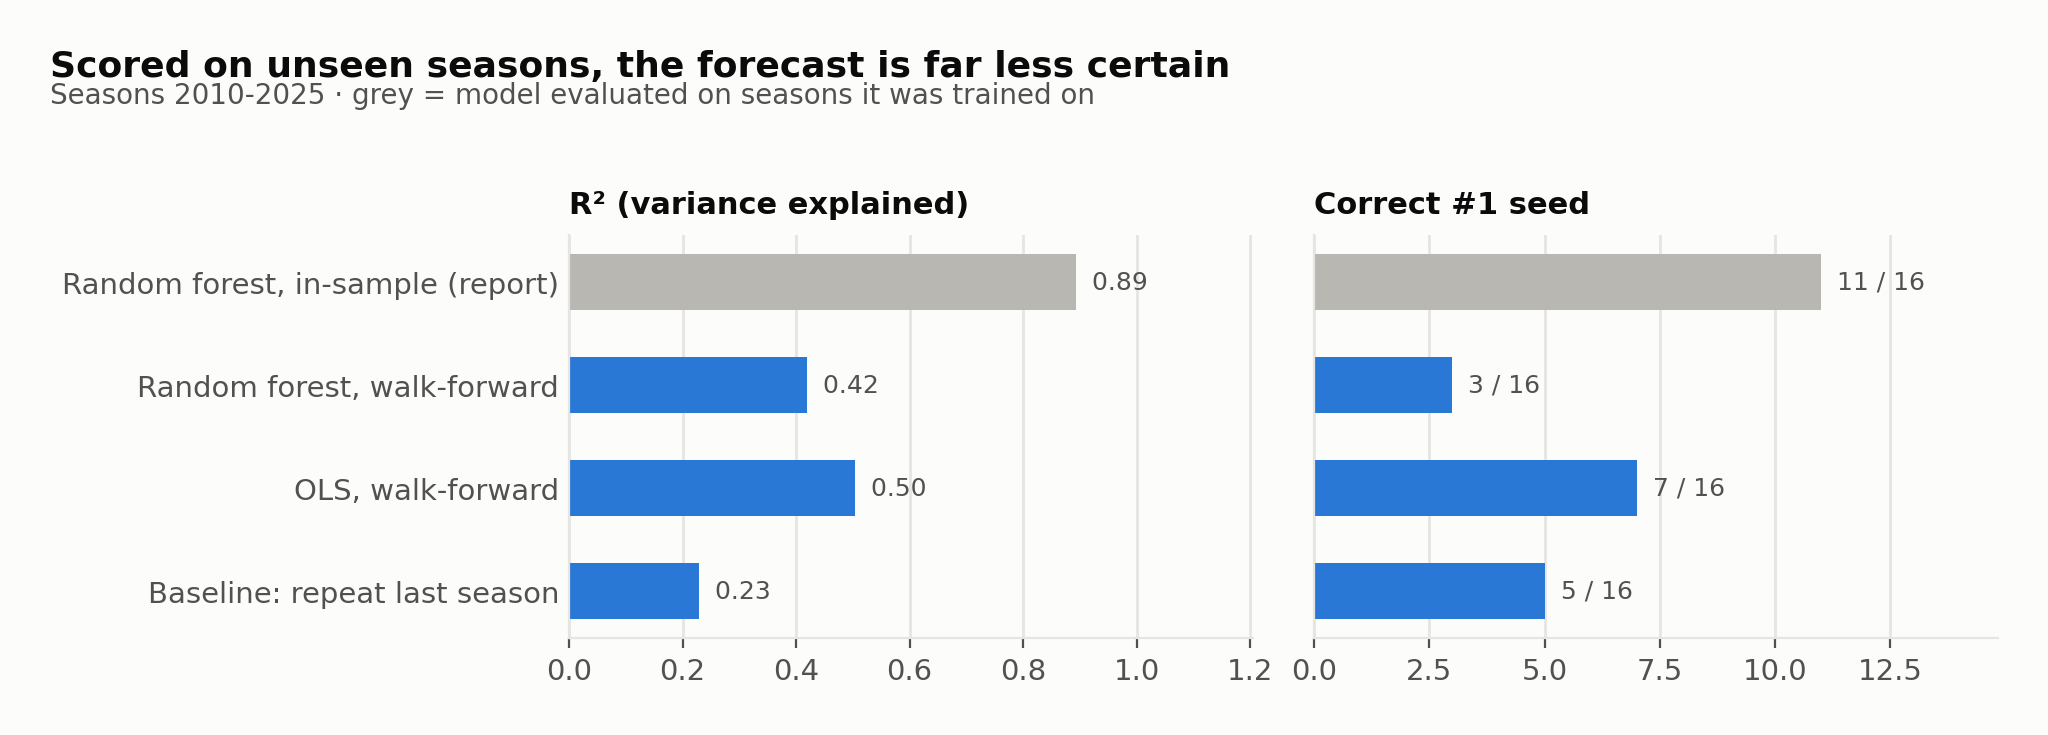
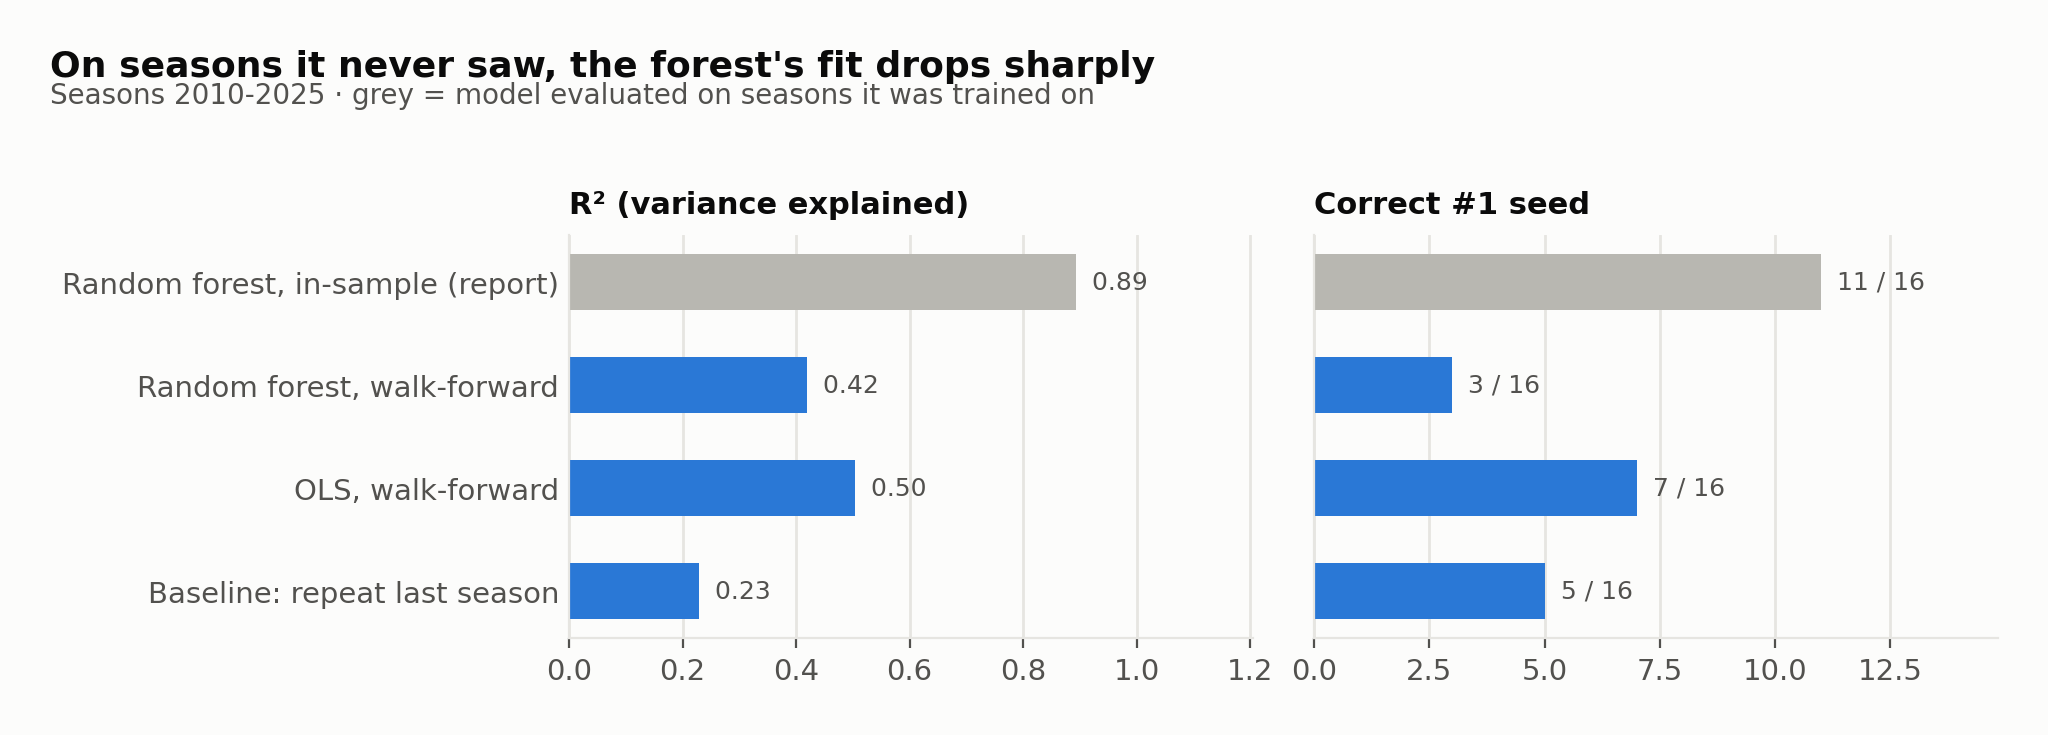
Describe the walk-forward test accurately; add CI; plain MIT license
- The walk-forward test predicts each season from its own box scores, so it measures fit on
  unseen seasons, not pre-season forecasting. README, notebook 03 and the evaluation figure now
  say so, and the repeat-last-season rule is shown as a reference rather than a fair benchmark.
- README: role line, label report vs corrected cleaning, drop the era-inflation explanation
  (the negative PTS/TRB correlations hold within seasons).
- Move the Basketball-Reference data note from LICENSE to the README so GitHub detects MIT.
- GitHub Actions test workflow with a live badge; silence numpy matmul RuntimeWarnings.

Changed region(s): [[0.0312, 0.0599, 0.5938, 0.1197]]

diff --git a/scripts/build_notebooks.py b/scripts/build_notebooks.py
@@ -193,8 +193,8 @@ The report's headline (*the random forest picks the league leader in 13 of 20 se
 trained on those same 20 seasons. This notebook asks the question a forecaster cares about:
 **how well does the method do on a season it has never seen?**
 
-- **Walk-forward backtest**: for each season 2010-2025, train only on earlier seasons, then predict that season.
-- **Baseline**: "every team repeats last season's win %".
+- **Walk-forward test**: for each season 2010-2025, train only on earlier seasons, then predict that season from its own box scores. This measures fit on unseen seasons, not pre-season forecasting (the season's stats are not known in advance).
+- **Reference**: "every team repeats last season's win %". It only uses pre-season information, so it is a point of scale, not a fair benchmark.
 - **Corrected data**: re-run everything with the cleaning fixes from the audit log at the bottom."""),
     (code, SETUP + "\nfrom sklearn.linear_model import LinearRegression\nfrom nba import model as m"),
     (code, '''FIRST = 2010
@@ -225,11 +225,11 @@ chart.index = ["Random forest, in-sample (report)", "Random forest, walk-forward
 fig = plots.evaluation(chart, seasons=f"{FIRST}-2025"); plots.save(fig, "evaluation");'''),
     (md, """**Reading the table**
 - In-sample, the forest explains ~89% of win % and picks 11 of 16 leaders. It is largely recalling seasons it trained on.
-- Walk-forward, it explains ~42% and picks 3 of 16, fewer than the naive baseline's 5. The simpler **OLS generalises better** (R² ≈ 0.50, 7 of 16).
-- On R², win error and rank error, both models beat the baseline (R² ≈ 0.23): box scores and prior awards carry real signal, just less than the report's headline suggests.
+- Walk-forward, it explains ~42% and picks 3 of 16. The simpler **OLS generalises better** (R² ≈ 0.50, 7 of 16).
+- Both models beat the repeat-last-season reference (R² ≈ 0.23), but they see the season's own box scores and the reference does not, so this is not evidence of forecasting skill.
 - The cleaning fixes move these results by less than the season-to-season noise.
 
-This flips one of the report's conclusions (random forest > OLS). Choosing the model with a time-based backtest is the first thing to change in a v2."""),
+This flips one of the report's conclusions (random forest > OLS). Choosing the model with a time-based test, and backtesting the full projection pipeline, are the first things to change in a v2."""),
     (md, """## Audit log: issues found while porting the original notebooks
 
 | Issue | Effect | Fix |

diff --git a/src/nba/plots.py b/src/nba/plots.py
@@ -213,7 +213,7 @@ def evaluation(summary: pd.DataFrame, seasons: str = "2010-2025"):
         ax.grid(axis="y", visible=False)
         ax.tick_params(axis="y", length=0)
         ax.set_xlim(min(0, vals.min() * 1.35), max(vals.max(), 0.01) * 1.35)
-    fig.suptitle("Scored on unseen seasons, the forecast is far less certain",
+    fig.suptitle("On seasons it never saw, the forest's fit drops sharply",
                  x=0.01, ha="left", fontweight="bold", fontsize=13)
     fig.text(0.01, 0.9, f"Seasons {seasons} · grey = model evaluated on seasons it was trained on",
              color=INK_2, fontsize=10)

diff --git a/README.md b/README.md
@@ -1,25 +1,28 @@
 # Predicting the NBA regular season from box scores
 
-**Can 20 years of player stats tell you who will finish first?** This project cleans 21 seasons of
+**Can two decades of player stats tell you who will finish first?** This project cleans 21 seasons of
 Basketball-Reference data, finds which statistics actually move with winning, and trains a random
 forest and an OLS regression to forecast the **2025-26 standings**. It then checks how much of that
 accuracy survives on seasons the model has never seen.
+
+> 4-person HEC Lausanne course project (2025). In the group I worked on data cleaning, modeling and
+> visualization; in 2026 I rebuilt and audited the analysis on my own. Credits: [Team](#team).
 
 ![Python](https://img.shields.io/badge/Python-3.9+-3776AB?logo=python&logoColor=white)
 ![pandas](https://img.shields.io/badge/pandas-150458?logo=pandas&logoColor=white)
 ![scikit-learn](https://img.shields.io/badge/scikit--learn-F7931E?logo=scikitlearn&logoColor=white)
 ![statsmodels](https://img.shields.io/badge/statsmodels-4051B5)
-![tests](https://img.shields.io/badge/tests-33%20passing-1baf7a)
+[![tests](https://github.com/twillixa/NBA-Analysis/actions/workflows/tests.yml/badge.svg)](https://github.com/twillixa/NBA-Analysis/actions/workflows/tests.yml)
 
 <p align="center"><img src="figures/forecast_2026.png" width="560" alt="Bar chart of predicted 2025-26 wins for all 30 teams: Oklahoma City leads with 55, Orlando last with 28; tick marks show the original report's forecast"></p>
 
 | | |
 |---|---|
 | **Data** | 10,473 player-seasons and 630 team-seasons, 2004-05 to 2024-25 |
-| **Forecast** | Oklahoma City has the best record (55-27), followed by Milwaukee (52) and Cleveland, the Clippers and Detroit (51). The original report had Cleveland and Oklahoma City tied at 54 |
+| **Forecast** (corrected data) | Oklahoma City has the best record (55-27), followed by Milwaukee (52) and Cleveland, the Clippers and Detroit (51). The original report had Cleveland and Oklahoma City tied at 54 |
 | **Best predictor** | Having an All-NBA player from last season (27.7% of random-forest importance) |
 | **Reported accuracy** | Random forest R² 0.44 on a random hold-out. It picks the league leader in 13 of 20 seasons, but only when scored on seasons it was trained on |
-| **Honest accuracy** | Trained only on past seasons, OLS reaches R² 0.50 and picks 7 of 16 leaders. The random forest reaches 0.42 and 3 of 16, and a "repeat last season" baseline 0.23 and 5 of 16 |
+| **Out-of-sample fit** (report's data cleaning) | Trained only on past seasons, OLS reaches R² 0.50 and picks 7 of 16 leaders, the random forest 0.42 and 3 of 16. Each season is explained from its own box scores, so this measures fit on unseen seasons, not pre-season forecasting |
 
 ---
 
@@ -31,7 +34,7 @@ accuracy survives on seasons the model has never seen.
 <td width="50%"><img src="figures/awards.png" alt="Average win percentage by best prior-season award on the roster"></td>
 </tr>
 <tr>
-<td><b>Star power and ball security matter most.</b> Last season's All-NBA (+0.51) and MVP-vote (+0.48) players correlate most strongly with win %. Turnovers (−0.45) and fouls (−0.35) hurt. Raw points and rebounds correlate <i>negatively</i> because scoring inflated across eras.</td>
+<td><b>Star power and ball security matter most.</b> Last season's All-NBA (+0.51) and MVP-vote (+0.48) players correlate most strongly with win %. Turnovers (−0.45) and fouls (−0.35) hurt. Raw points and rebounds per player even correlate slightly <i>negatively</i>, and that holds within seasons, so it is not just scoring inflation across eras.</td>
 <td><b>A prior-season MVP is worth about +.250 in win %.</b> Teams with last year's MVP averaged a .694 win %, versus .438 for teams with no prior-season award winner. This is why lagged awards are model features.</td>
 </tr>
 <tr>
@@ -55,15 +58,21 @@ accuracy survives on seasons the model has never seen.
 ## How good is the forecast, really?
 
 The original report scored its leader predictions with a model trained on those same seasons.
-[Notebook 3](notebooks/03_out_of_sample_audit.ipynb) re-scores it with a **walk-forward backtest**:
+[Notebook 3](notebooks/03_out_of_sample_audit.ipynb) re-scores it with a **walk-forward test**:
 for every season from 2010 to 2025, the models are trained only on earlier seasons.
 
-<p align="center"><img src="figures/evaluation.png" width="820" alt="R squared and correct first-seed counts for in-sample random forest, walk-forward random forest, walk-forward OLS and a repeat-last-season baseline"></p>
+What this measures: each test season is predicted from its **own** box scores, so it shows how well the
+models *explain* wins on seasons they never saw. It is not a pre-season forecast test, which would
+first have to project the season's stats (as the 2025-26 forecast does).
 
-- **Most of the forest's in-sample accuracy is memorisation.** On unseen seasons it picks fewer
-  league leaders than simply repeating last season's standings.
-- **The simpler OLS generalises better**, which reverses one of the report's conclusions.
-- **Box scores and prior awards still carry real signal.** On R², win error and rank error, both models clearly beat the baseline.
+<p align="center"><img src="figures/evaluation.png" width="820" alt="R squared and correct first-seed counts for in-sample random forest, walk-forward random forest and walk-forward OLS, with a repeat-last-season reference"></p>
+
+- **Most of the forest's in-sample accuracy is memorisation.** Its R² falls from 0.89 on seasons it
+  was trained on to 0.42 on unseen ones.
+- **The simpler OLS generalises better** (R² 0.50, 7 of 16 leaders vs 3), which reverses the report's
+  choice of model.
+- **The "repeat last season" bars are a reference, not a fair benchmark.** That rule only uses
+  pre-season information, while both models see the season's own box scores.
 
 ## Audit: what changed from the original analysis
 
@@ -77,7 +86,7 @@ the code, so the [report's numbers are still reproducible](notebooks/02_model_an
 | Player projections trained on the all-zero 2026 rows | projected stats biased toward zero | trained on real seasons only |
 | Points per attempt averaged players' shooting percentages | players with no threes count as 0% shooters, so twos looked better in every season | threes were worth more until 2021 |
 | Traded players' season totals kept as a pseudo-team | league averages double-counted traded players | small shifts (3PA growth +171% → +175%) |
-| Model scored on its own training seasons | 13/20 leaders looked like forecasting skill | walk-forward backtest above |
+| Model scored on its own training seasons | 13/20 leaders looked like forecasting skill | walk-forward test above |
 
 The full list, including the True Shooting formula and award parsing, is in the
 [audit log](notebooks/03_out_of_sample_audit.ipynb). None of the fixes changes the evaluation results by more
@@ -144,6 +153,7 @@ compiled by the team.
 - Players are matched by name. Basketball-Reference player IDs would be more robust.
 - Next steps:
   - choose models by walk-forward error
+  - backtest the full pipeline: project each season from the three before it, then predict
   - add possession-based (pace-adjusted) offense and defense ratings
   - score the 2025-26 forecast against the final standings
 
@@ -154,4 +164,6 @@ Mohamed Ben Moctar, Mizuki Oelhafen and Mahdere Tesfamichael**. The original Col
 [maadmaaax/Project_NBA_GroupM](https://github.com/maadmaaax/Project_NBA_GroupM). This repository is a
 tested, modular port of them, with the out-of-sample evaluation and the fixes above added.
 
-Code is released under the [MIT License](LICENSE).
+Code is released under the [MIT License](LICENSE). Data in `data/raw/` was downloaded from
+[Basketball-Reference](https://www.basketball-reference.com) and remains subject to Sports Reference's
+terms of use; it is not covered by the license.
